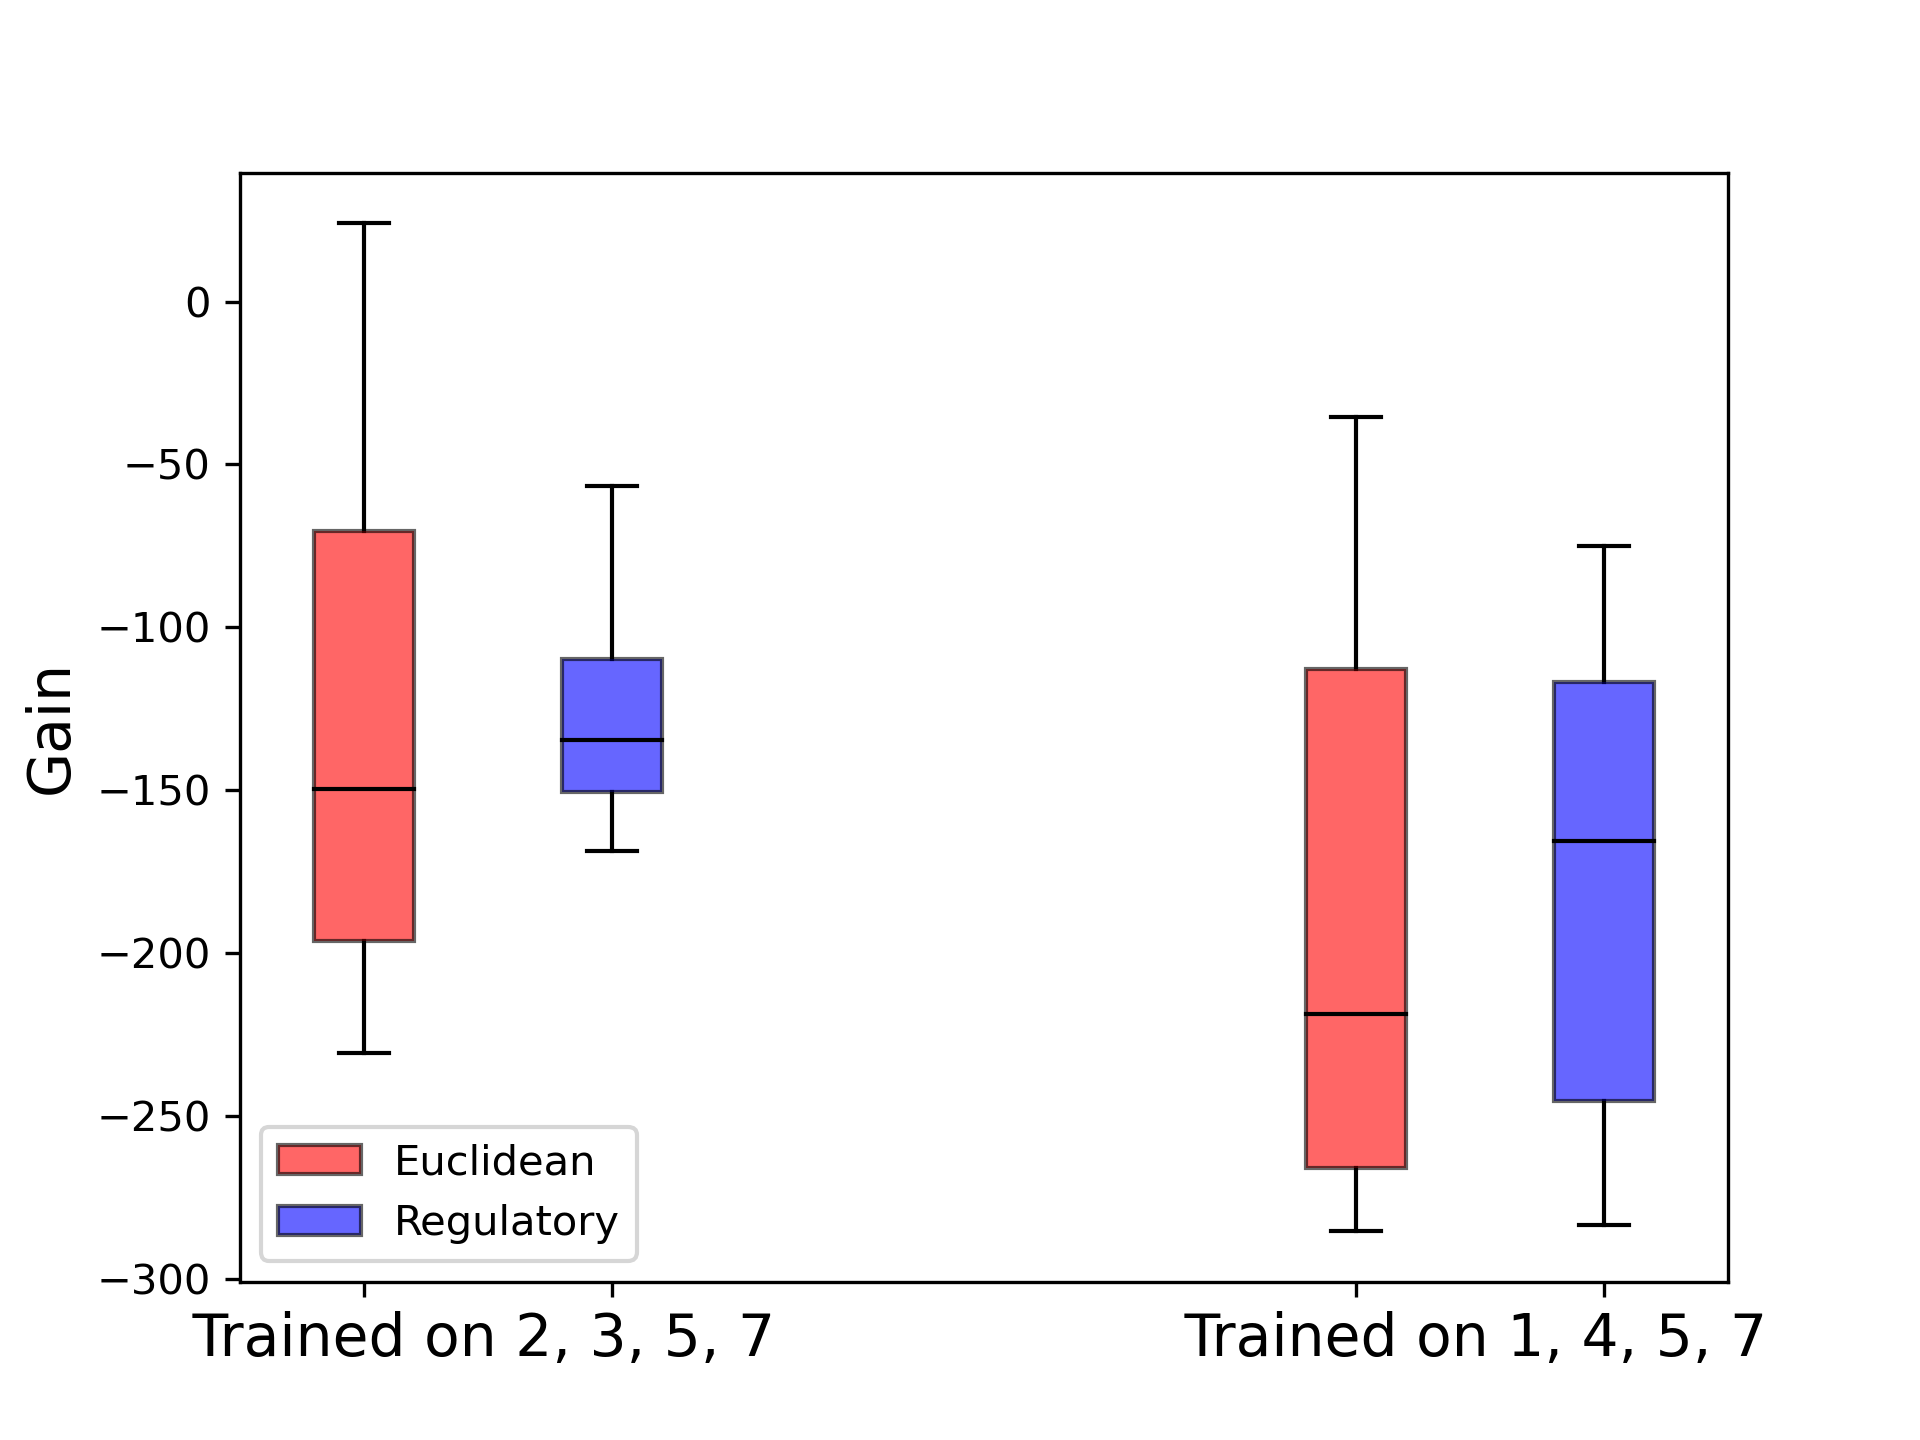
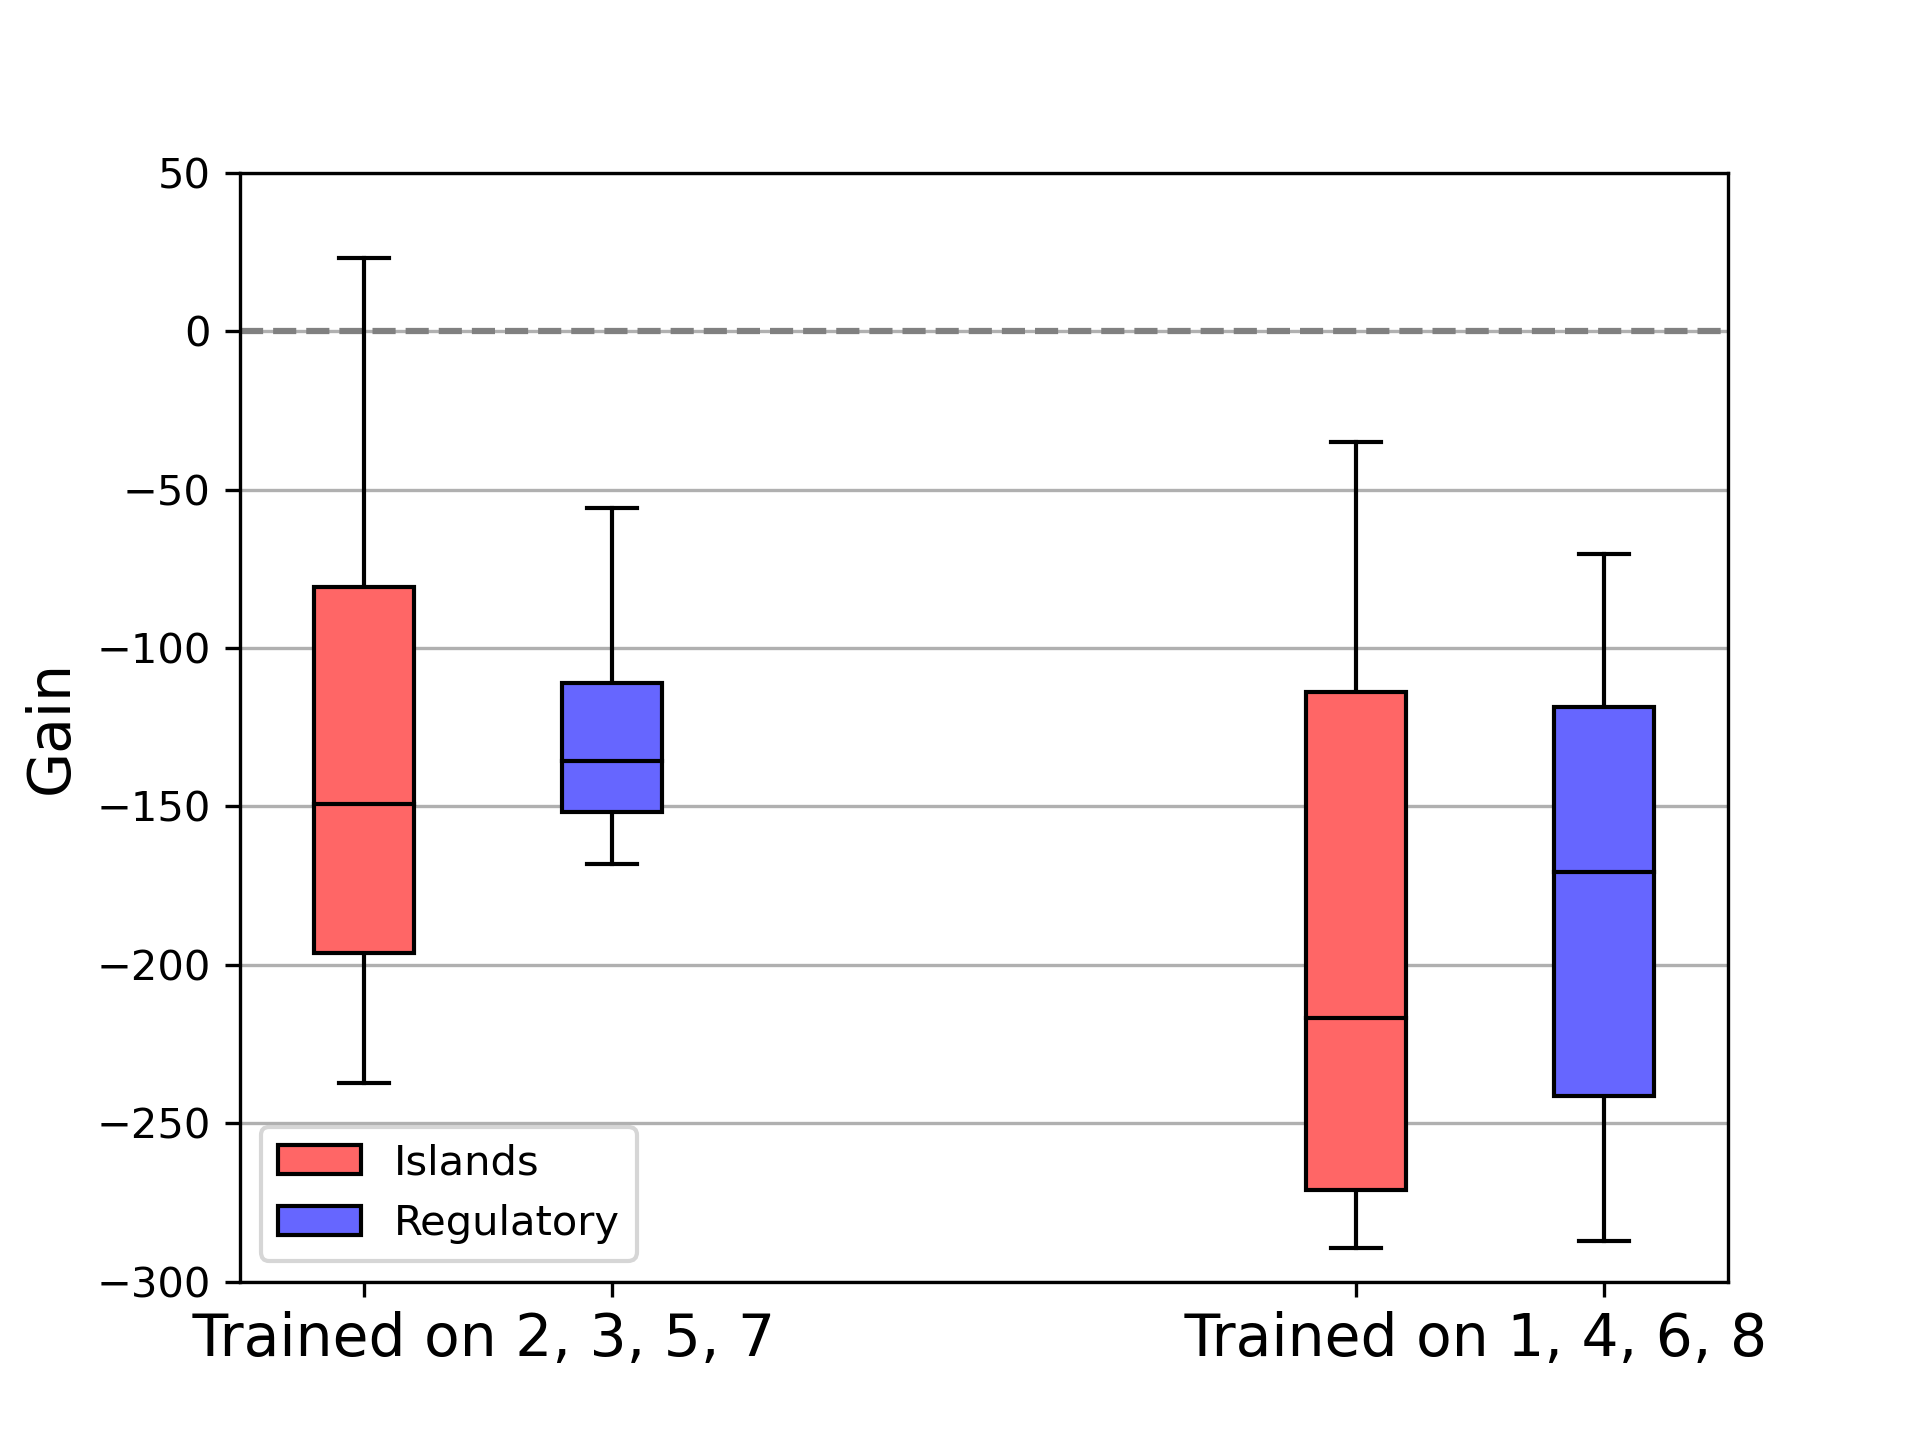
added final plots

diff --git a/generalist/boxplots_pergroup.py b/generalist/boxplots_pergroup.py
@@ -28,10 +28,9 @@ if not os.path.exists(experiment_name):
     os.makedirs(experiment_name)
 
 
-def run_winners(folder, runs):
+def run_winners(folder, runs, enemy):
     n_hidden_neurons = 10       #number of hidden neurons
     n_vars = (20+1)*n_hidden_neurons + (n_hidden_neurons+1)*5
-    enemy = [1,2,3,4,5,6,7,8]   #which enemy
     population_size = 100       #pop size
     test_number = 5             #times to run the best individual
 
@@ -73,15 +72,19 @@ def run_winners(folder, runs):
 
 
 def boxplots(folders, runs):
-    ticklabels = ['             Trained on 2, 3, 5, 7','', '             Trained on 1, 4, 6, 8', '']
+    ticklabels = ['             Enemies 2, 3, 5, 7','', '             Enemies 1, 4, 6, 8', '']
     fig, ax = plt.subplots()
-    save = 'final_plot_data/boxplot_final_norandomini.png'
-    plt.grid(axis='y')
-    plt.axhline(y=0, color='Grey', linestyle='--')
-    data = [[[-196.99999999999966, -237.43999999999974, 15.00000000000091, -80.11999999999945, -83.19999999999953, -200.6399999999997, 23.200000000000898, -112.71999999999966, -193.51999999999967, -185.71999999999971],[-144.3599999999995, -55.91999999999937, -168.03999999999968, -104.63999999999949, -119.99999999999969, -107.91999999999966, -134.51999999999936, -154.31999999999968, -136.83999999999932, -162.15999999999968]],[[-179.47999999999922, -35.079999999999195, -100.71999999999916, -274.1599999999992, -289.3999999999992, -50.199999999999136, -153.83999999999898, -253.95999999999898, -281.19999999999925, -261.79999999999916], [-70.43999999999929, -122.31999999999888, -121.71999999999893, -280.3999999999992, -219.19999999999908, -117.7199999999992, -248.39999999999927, -105.03999999999932, -220.39999999999918, -287.31999999999914]]]
+    save = 'final_plot_data/boxplot_final_per_group.png'
+    plt.grid(axis='y', zorder=1)
+    plt.axhline(y=0, color='Grey', linestyle='--', zorder=1)
+    enemy = [[2, 3, 5, 7], [1, 4, 6, 8]]   #which enemy
+    data = [[[113.36000000000033, 104.2000000000003, 197.6400000000006, 152.64000000000053, 224.16000000000045, 130.08000000000033, 195.12000000000063, 135.3600000000003, 134.56000000000031, 126.44000000000032],
+[154.5600000000005, 203.60000000000062, 129.08000000000033, 205.84000000000052, 188.68000000000035, 193.40000000000035, 145.48000000000067, 156.7600000000003, 125.08000000000068, 147.12000000000032]], [[-42.59999999999949, 71.80000000000055, 36.40000000000056, -75.59999999999947, 14.600000000000804, 71.80000000000086, -1.1999999999992639, -43.999999999999275, -70.39999999999951, 56.20000000000084],
+[73.2000000000005, 62.80000000000077, 34.000000000000824, 55.60000000000082, 30.2000000000007, 18.80000000000055, 43.60000000000073, 149.6000000000006, 73.60000000000082, 4.600000000000776]]]
     for idx, f in enumerate(folders):
-        gain_list_alg1 = data[idx][0] #run_winners(f[0], runs)
-        gain_list_alg2 = data[idx][1] #run_winners(f[1], runs)
+        print(enemy[idx])
+        gain_list_alg1 = data[idx][0] #run_winners(f[0], runs, enemy[idx])
+        gain_list_alg2 = data[idx][1] #run_winners(f[1], runs, enemy[idx])
 
         print(gain_list_alg1)
         print(gain_list_alg2)
@@ -89,13 +92,13 @@ def boxplots(folders, runs):
         #create boxplot
         bp1= ax.boxplot(gain_list_alg1, positions = [((idx+1)*4-2)],  patch_artist=True,
             # Set facecolor to red
-            boxprops=dict(facecolor=[(1), (102/255), (102/255)], alpha = 1), medianprops = dict(color = 'k'), widths = 0.4)
+            boxprops=dict(facecolor=[(1), (102/255), (102/255)], alpha = 1), medianprops = dict(color = 'k'), widths = 0.4, zorder=10000)
         bp2 = ax.boxplot(gain_list_alg2, positions=[((idx + 1) * 4 - 1)],  patch_artist=True,
             # Set facecolor to red
-            boxprops=dict(facecolor=[(102/255), (102/255), (1)], alpha = 1), medianprops = dict(color = 'k'), widths = 0.4 )
+            boxprops=dict(facecolor=[(102/255), (102/255), (1)], alpha = 1), medianprops = dict(color = 'k'), widths = 0.4, zorder=10000)
 
     ax.set_xticklabels(ticklabels, fontsize = 14)
-    plt.ylim(-300, 50)
+    plt.ylim(-100, 300)
     plt.legend([bp1["boxes"][0], bp2["boxes"][0]], ["Islands", "Regulatory"], loc='lower left')
     plt.ylabel('Gain', fontsize=14)
     plt.savefig(save, dpi=300)

diff --git a/generalist/lineplots.py b/generalist/lineplots.py
@@ -37,8 +37,8 @@ def retrieve_data(data_folder, runs):
     mean_values = mean_values.reshape(runs, generations)
     mean_of_max = np.mean(max_values, axis=0)
     mean_of_mean = np.mean(mean_values, axis=0)
-    std_of_max = np.std(max_values, axis=0)
-    std_of_mean = np.std(mean_values, axis=0)
+    std_of_max = np.std(max_values, axis=0) / np.sqrt(runs)
+    std_of_mean = np.std(mean_values, axis=0) / np.sqrt(runs)
 
     return mean_of_max, mean_of_mean, std_of_max, std_of_mean, generations
 
@@ -47,16 +47,16 @@ def line_plots(folders, runs):
     '''Creates a line plot for one training group of enemies showing the performance
     of different algorithm results located in folers.'''
 
-    labels = [['Max Euclidean', 'Mean Euclidean'], ['Max Regulatory', 'Mean Regulatory']]
-    colors = ['C0', 'C1']
-    save = 'final_plot_data/lineplot_[2, 3, 5, 7].png'
+    labels = [['Max Islands', 'Mean Islands'], ['Max Regulatory', 'Mean Regulatory']]
+    colors = ['Red', 'Blue']
+    save = 'final_plot_data/lineplot_[1, 4, 6, 8].png'
     fig, ax = plt.subplots()
 
     for i, f in enumerate(folders):
         mean_of_max, mean_of_mean, std_of_max, std_of_mean, generations = retrieve_data(f, runs)
 
         #plotting
-        x = range(1, (len(mean_of_max)+1))
+        x = range(0, (len(mean_of_max)))
         ax.plot(x, mean_of_max, linestyle = "dashed", color = colors[i], label=labels[i][0])
         ax.plot(x, mean_of_mean, color = colors[i], label=labels[i][1])
         ax.fill_between(x,
@@ -66,21 +66,20 @@ def line_plots(folders, runs):
                         mean_of_mean - std_of_mean,
                         mean_of_mean + std_of_mean, color = colors[i], alpha=0.2)
 
-    ax.set_xlim(1, generations)
-    ax.set_xticks(np.arange(1, generations+1, int(generations/10)))
+    ax.set_xlim(0, generations)
+    ax.set_xticks(np.arange(0, generations+1, int(generations/10)))
     # plt.ylim(-110,120)
-    plt.text(12, -300, 'Enemies 2, 3, 5, 7', fontsize=14)
+    plt.text(12, -400, 'Enemies 1, 4, 6, 8', fontsize=14)
     plt.xlabel('Generation', fontsize=14)
     plt.ylabel('Gain', fontsize=14)
-    plt.legend(loc = 'lower right')
+    # plt.legend(loc = 'lower right')
     plt.grid()
     plt.savefig(save, dpi=300)
     plt.show()
 
 
-
-data_folder_alg1 = 'data_normal/enemy_[2, 3, 5, 7]_standard_eucl' #folder with data for algorithm 1
-data_folder_alg2 = 'data_normal/enemy_[2, 3, 5, 7]_standard_reg' #folder with data for algorithm 2
+data_folder_alg1 = 'data_normal/enemy_[1, 4, 6, 8]_standard_eucl' #folder with data for algorithm 1
+data_folder_alg2 = 'data_normal/enemy_[1, 4, 6, 8]_standard_reg' #folder with data for algorithm 2
 runs = 10  #should be 10 for final runs
 folders = [data_folder_alg1, data_folder_alg2]
 line_plots(folders, runs)

diff --git a/generalist/simple_hillclimb.py b/generalist/simple_hillclimb.py
@@ -13,7 +13,7 @@ import copy
 import numpy as np
 from math import fabs,sqrt
 import glob, os
-from bio_functions import crossover, mutation, get_children, fitfunc
+# from bio_functions import crossover, mutation, get_children, fitfunc
 import csv
 import matplotlib.pyplot as plt
 
@@ -46,7 +46,7 @@ def initial(folder):
     weights_data = []
 
     #open data
-    with open(f'{folder}/best_sol_0.csv', newline='', encoding='utf-8') as f:
+    with open(f'{folder}/hillclimbed_best_sol.csv.csv', newline='', encoding='utf-8') as f:
         reader = csv.reader(f, delimiter=',', quoting=csv.QUOTE_NONNUMERIC)
         for row in reader:
             weights_data.append(row)
@@ -95,7 +95,7 @@ def climb(player, env, best_gain):
     print('no better solution found')
 
     #save best option
-    with open(f'{experiment_name}/bestsol.csv', 'w', newline='', encoding='utf-8') as f:
+    with open(f'{experiment_name}/hillclimbed_best_sol.csv', 'w', newline='', encoding='utf-8') as f:
         writer = csv.writer(f)
         writer.writerow(player)
 
